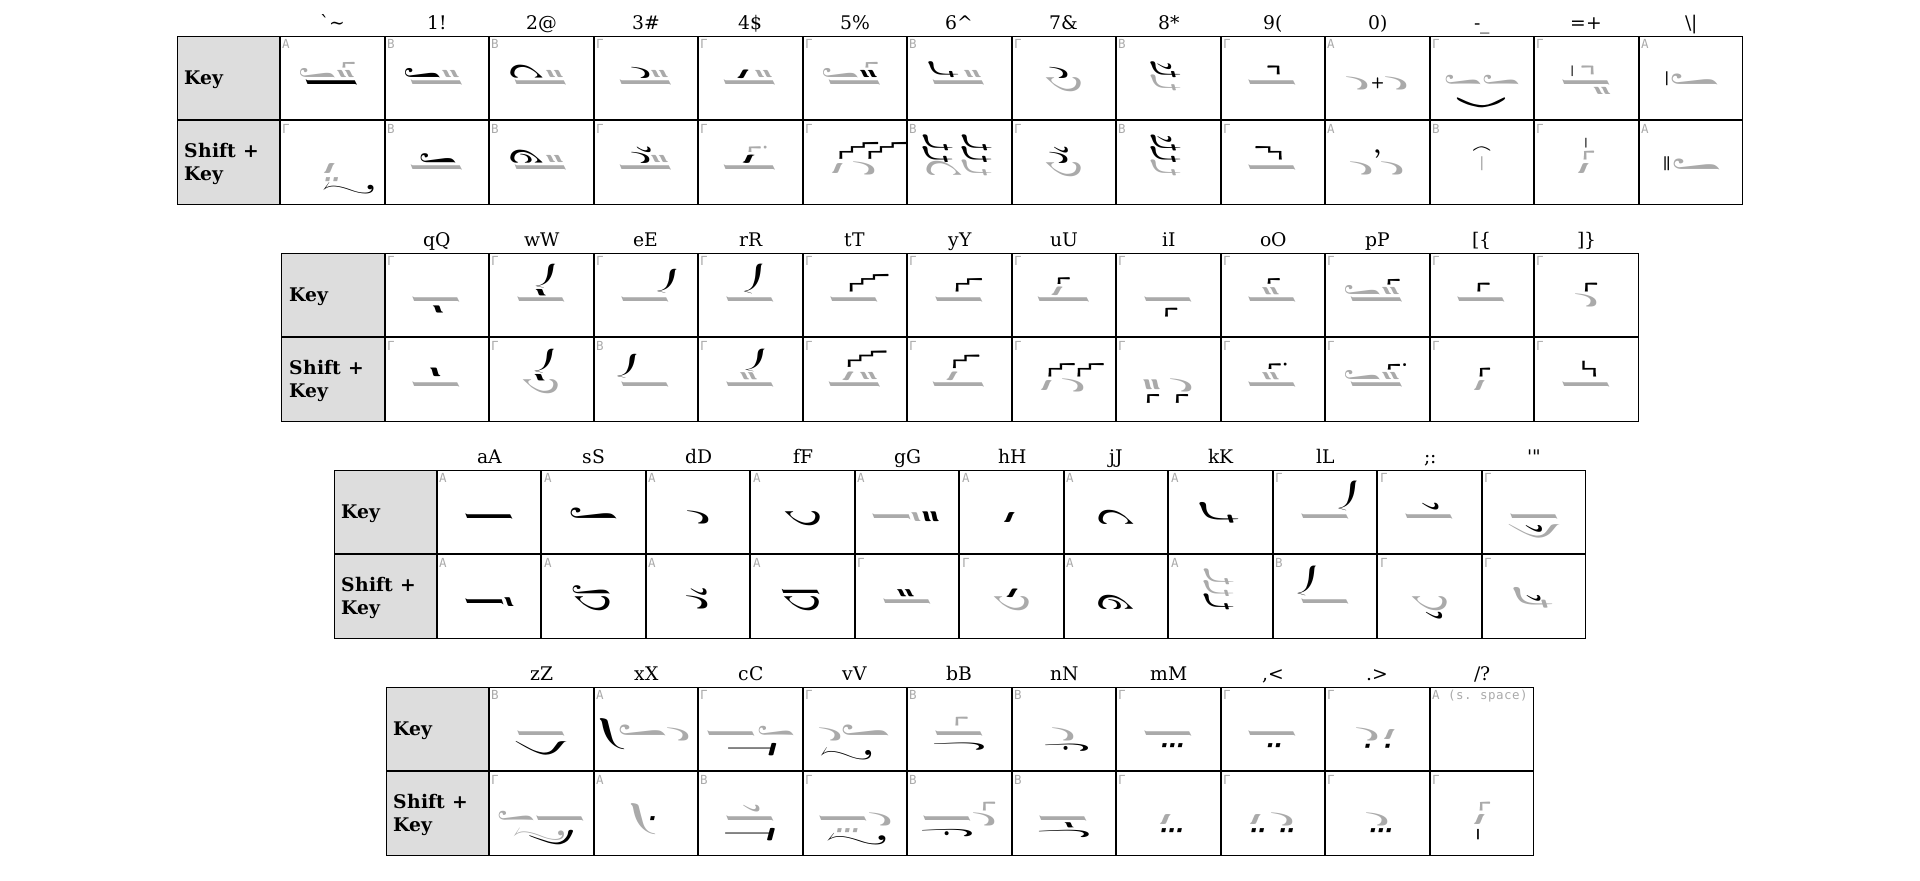
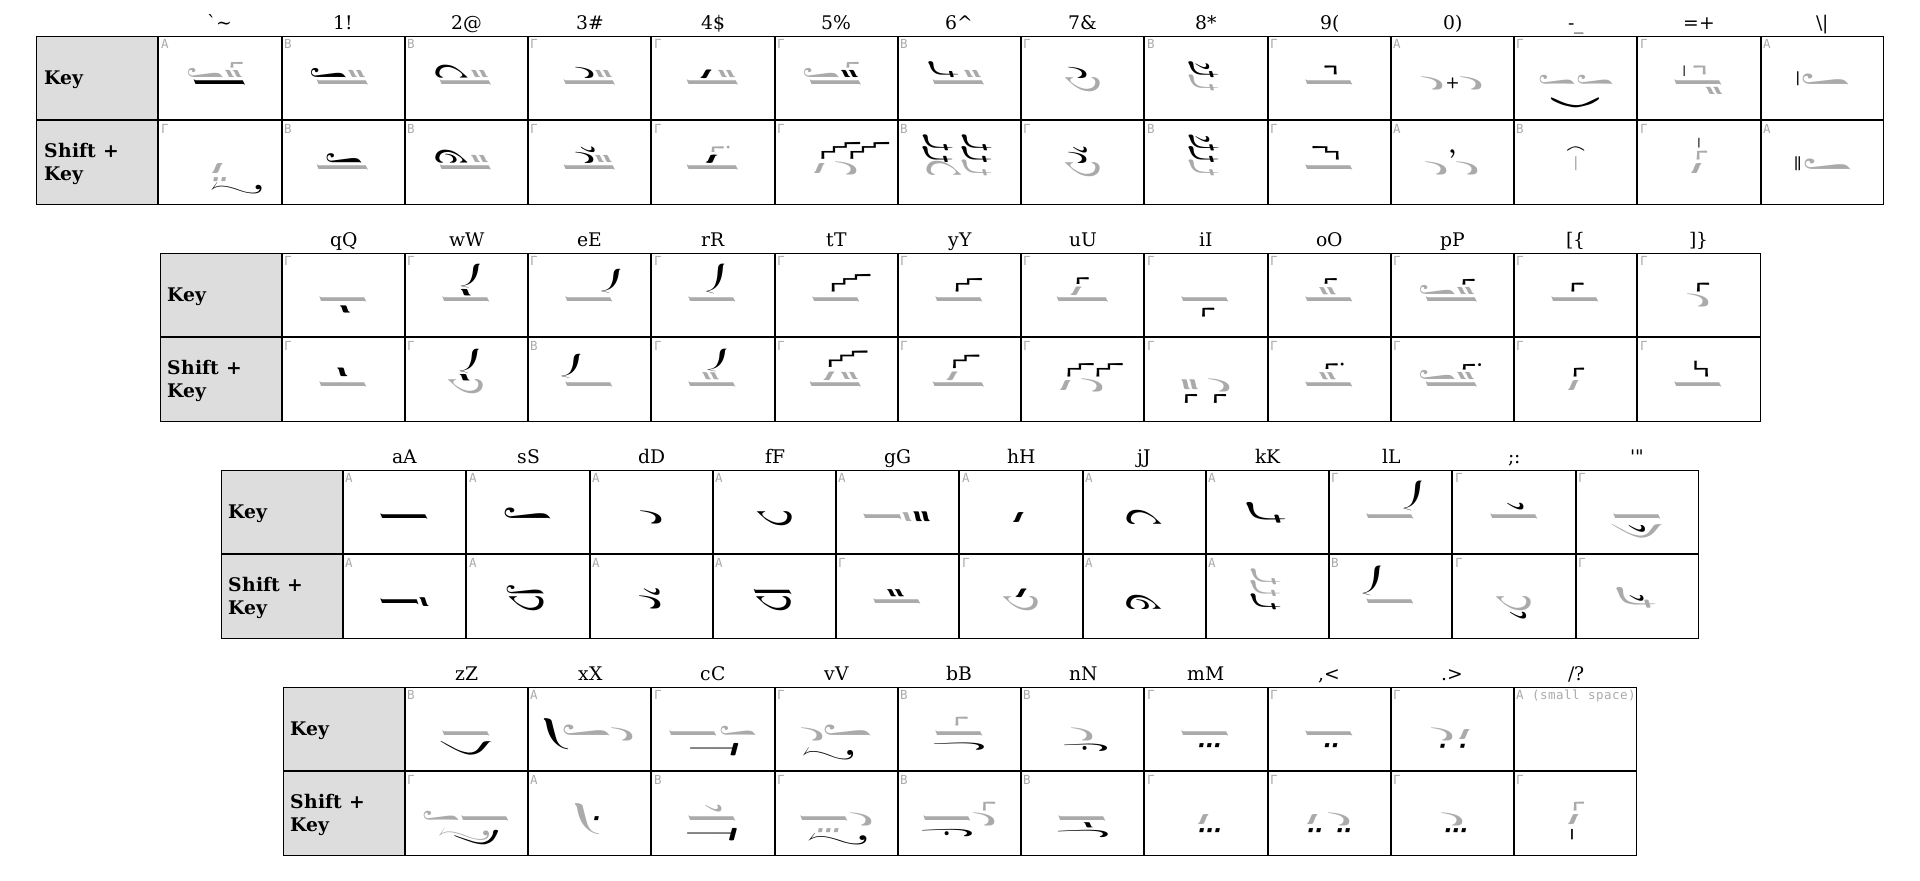
Add Greek Layout

diff --git a/web/keyboard_music_gr.html b/web/keyboard_music_gr.html
@@ -1,0 +1,201 @@
+<!DOCTYPE html>
+<html>
+
+<head>
+  <title>Byzantinografos Keyboard (Music - Greek)</title>
+  <meta charset="UTF-8">
+  <meta name="viewport" content="width=device-width, initial-scale=1.0">
+</head>
+
+<body>
+  <link rel="stylesheet" href="css/fonts.css" />
+  <link rel="stylesheet" href="css/keyboard.css" />
+  <style type="text/css">
+    table tbody td {
+      font-family: 'ByzMusic';
+    }
+  </style>
+  </head>
+
+  <body>
+    <!-- TABLE 1 -->
+    <table>
+      <thead>
+        <tr>
+          <th>&nbsp;</th>
+          <td>;:</td>
+          <td>ςΣ</td>
+          <td>εΕ</td>
+          <td>ρΡ</td>
+          <td>τΤ</td>
+          <td>υΥ</td>
+          <td>θΘ</td>
+          <td>ιΙ</td>
+          <td>οΟ</td>
+          <td>πΠ</td>
+        </tr>
+      </thead>
+      <tbody>
+        <tr>
+          <th>Key</th>
+          <td>&nbsp;</td>
+          <td>
+            <pre>Γ</pre><span>a</span>ς</td>
+          <td>
+            <pre>Γ</pre><span>`4Y</span>ε</td>
+          <td>
+            <pre>Γ</pre><span>ay</span>ρ</td>
+          <td>
+            <pre>Γ</pre><span>a(</span>τ</td>
+          <td>
+            <pre>Γ</pre><span>d</span>υ&nbsp;<span>g</span>υ</td>
+          <td>
+            <pre>Γ</pre><span>`4</span>θ</td>
+          <td>
+            <pre>Γ</pre><span>a</span>ι</td>
+          <td>
+            <pre>Γ</pre><span>aG</span>ο</td>
+          <td>
+            <pre>Γ</pre><span>1`5</span>π</td>
+        </tr>
+        <tr>
+          <th>Shift + Key</th>
+          <td>&nbsp;</td>
+          <td>&nbsp;</td>
+          <td>
+            <pre>Γ</pre><span>1`5</span>Ε</td>
+          <td>
+            <pre>Γ</pre><span>hU</span>Ρ</td>
+          <td>
+            <pre>Γ</pre><span>`4Y</span>Τ</td>
+          <td>
+            <pre>Γ</pre><span>d</span>Υ&nbsp;<span>g</span>Υ</td>
+          <td>
+            <pre>Γ</pre><span>`4</span>Θ</td>
+          <td>
+            <pre>Γ</pre><span>a</span>Ι</td>
+          <td>
+            <pre>Γ</pre><span>1`5</span>Ο</td>
+          <td>
+            <pre>Γ</pre><span>1`5</span>Π</td>
+        </tr>
+      </tbody>
+    </table>
+
+    <!-- TABLE 2 -->
+    <table>
+      <thead>
+        <tr>
+          <th>&nbsp;</th>
+          <td>αΑ</td>
+          <td>σΣ</td>
+          <td>δΔ</td>
+          <td>φΦ</td>
+          <td>γΓ</td>
+          <td>ηΗ</td>
+          <td>ξΞ</td>
+          <td>κΚ</td>
+          <td>λΛ</td>
+        </tr>
+      </thead>
+      <tbody>
+        <tr>
+          <th>Key</th>
+          <td>
+            <pre>Γ</pre><span>a</span>α</td>
+          <td>
+            <pre>Α</pre>σ</td>
+          <td>
+            <pre>Α</pre>δ<span>2`5</span></td>
+          <td>
+            <pre>Α</pre>φ</td>
+          <td>
+            <pre>Γ</pre><span>za</span>γ&nbsp;<span>Ca</span>γ</td>
+          <td>
+            <pre>Γ</pre><span>f</span>η</td>
+          <td>
+            <pre>Β</pre>ξ<span>f</span></td>
+          <td>
+            <pre>Γ</pre><span>h</span>κ&nbsp;<span>d</span>κ</td>
+          <td>
+            <pre>Γ</pre><span>a[</span>λ<span>hU</span>λ</td>
+        </tr>
+        <tr>
+          <th>Shift + Key</th>
+          <td>
+            <pre>Γ</pre><span>a</span>Α</td>
+          <td>
+            <pre>Γ</pre><span>a</span>Σ<span>σ</span></td>
+          <td>
+            <pre>Α</pre><span>xd</span>Δ<span>σ</span>Δ</td>
+          <td>
+            <pre>Α</pre>Φ</td>
+          <td>
+            <pre>Γ</pre><span>a9</span>Γ</td>
+          <td>
+            <pre>Α</pre><span>Φ</span>Η<span>g</span></td>
+          <td>
+            <pre>Γ</pre><span>a</span>Ξ</td>
+          <td>
+            <pre>Γ</pre><span>h</span>Κ&nbsp;<span>d</span>Κ</td>
+          <td>
+            <pre>Γ</pre><span>a[</span>Λ</td>
+        </tr>
+      </tbody>
+    </table>
+
+    <!-- TABLE 3 -->
+    <table>
+      <thead>
+        <tr>
+          <th>&nbsp;</th>
+          <td>ζΖ</td>
+          <td>χΧ</td>
+          <td>ψΨ</td>
+          <td>ωΩ</td>
+          <td>βΒ</td>
+          <td>νΝ</td>
+          <td>μΜ</td>
+        </tr>
+      </thead>
+      <tbody>
+        <tr>
+          <th>Key</th>
+          <td>
+            <pre>Γ</pre><span>σ</span>ζ<span>σσ</span></td>
+          <td>
+            <pre>Γ</pre><span>σ</span>χ<span>σσ</span></td>
+          <td>
+            <pre>Γ</pre><span>d</span>ψ<span>σ</span></td>
+          <td>
+            <pre>Γ</pre><span>d</span>ω<span>s</span></td>
+          <td>
+            <pre>Γ</pre><span>1`5</span>β</td>
+          <td>
+            <pre>Β</pre>ν<span>a</span></td>
+          <td>
+            <pre>Β</pre>μ<span>a</span></td>
+        </tr>
+        <tr>
+          <th>Shift + Key</th>
+          <td>
+            <pre>Γ</pre><span>σ</span>Ζ<span>σσ</span></td>
+          <td>
+            <pre>Γ</pre><span>σ</span>Χ<span>σσ</span></td>
+          <td>
+            <pre>Γ</pre><span>h</span>Ψ<span>s</span></td>
+          <td>
+            <pre>Γ</pre><span>a</span>Ω<span>d</span></td>
+          <td>
+            <pre>Γ</pre><span>a</span>Β</td>
+          <td>
+            <pre>Β</pre>Ν<span>h{</span></td>
+          <td>
+            <pre>Β</pre>Μ<span>d</span></td>
+        </tr>
+      </tbody>
+    </table>
+
+  </body>
+
+</html>

diff --git a/web/css/keyboard.css b/web/css/keyboard.css
@@ -15,14 +15,14 @@ table {
 }
 
 table tbody th {
-    width: 75px;
+    width: 90px;
     text-align: left;
     padding-left: 5px;
     background-color: #ddd;
 }
 
 table thead td, table tbody td {
-    width: 80px;
+    width: 95px;
 }
 
 table tbody th, table tbody td {

diff --git a/web/keyboard_music_en.html b/web/keyboard_music_en.html
@@ -293,7 +293,7 @@
           <td>
             <pre>Γ</pre><span>d</span>.&nbsp;<span>h</span>.</td>
           <td>
-            <pre>Α (s. space)</pre>/</td>
+            <pre>Α (small space)</pre>/</td>
         </tr>
         <tr>
           <th>Shift + Key</th>
